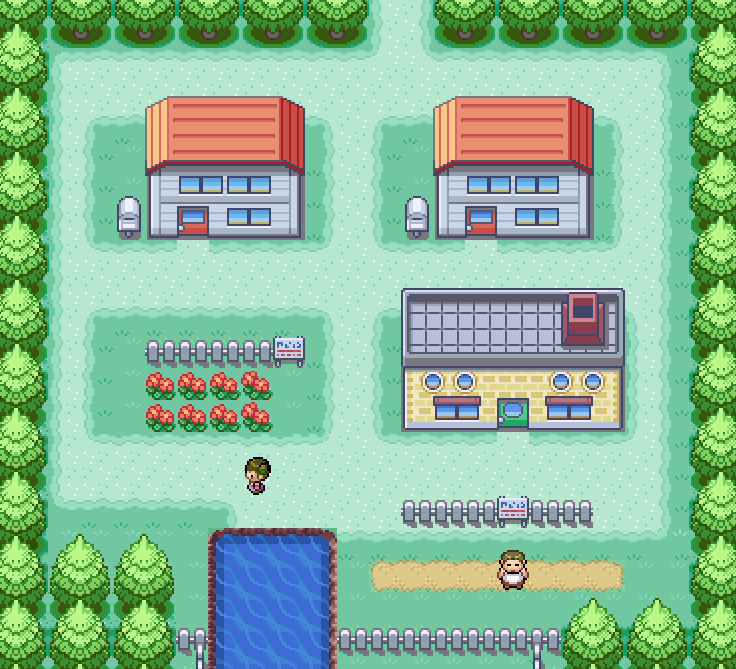
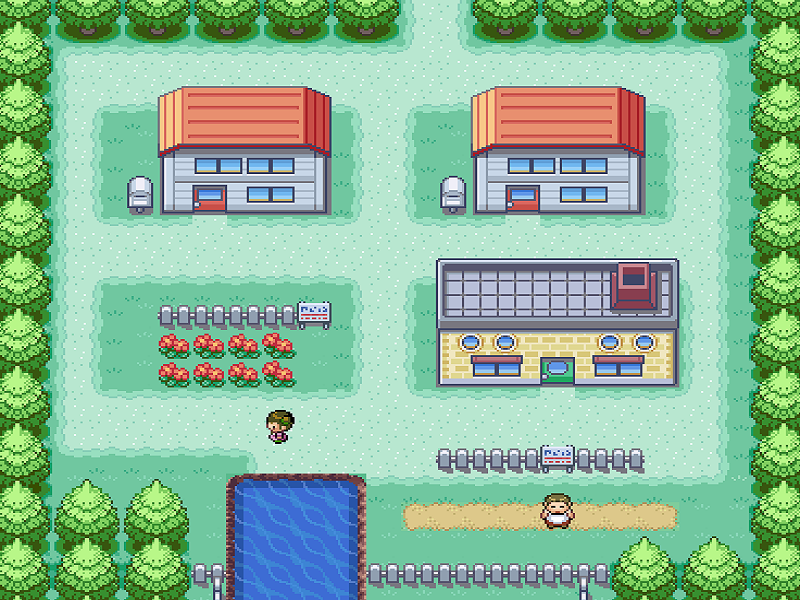
edit final
Reedição com ajustes e polimentos finais. Pré build.

diff --git a/game_principal.py b/game_principal.py
@@ -2,23 +2,27 @@ import pygame
 import time
 import random
 pygame.init()
-largura = 736
-altura = 669
+largura = 800
+altura = 600
 configTela = (largura, altura)
 gameDisplay = pygame.display.set_mode(configTela)
 clock = pygame.time.Clock()
 white = (255, 255, 255)
 red = (255, 0, 0)
+black = (0, 0, 0)
 pygame.display.set_caption("Pokémon Dodge")
 icone = pygame.image.load("assets/pikachuicon.png")
 pygame.display.set_icon(icone)
 pikachu = pygame.image.load("assets/pikachu2.png")
-larguraPikachu = 256
+larguraPikachu = 105
 fundo = pygame.image.load("assets/cidade_pallet.png")
-pokeball = pygame.image.load("assets/pokeball2.jpg")
+pokeball = pygame.image.load("assets/pokebola.png")
 capturadoSound = pygame.mixer.Sound("assets/pikachu_scream.mp3")
+capturadoSound.set_volume(0.04)
+pikachuSound = pygame.mixer.Sound("assets/pikachuSound.mp3")
+pikachuSound.set_volume(0.1)
 descargaSound = pygame.mixer.Sound("assets/descarga.mp3")
-descargaSound.set_volume(0.2)
+descargaSound.set_volume(0.1)
 nomeJogador = str(input("Insira o seu nome: "))
 emailJogador = str(input("Insira o seu email: "))
 arquivo = open("historico.txt", "a")
@@ -39,23 +43,25 @@ def escreverTela(texto):
     time.sleep(5)
     game()
 def escreverPlacar(contador):
-    fonte = pygame.font.SysFont(None, 30)
-    texto = fonte.render("Desvios:"+str(contador), True, white)
-    gameDisplay.blit(texto, (10, 10))
+    fonte = pygame.font.SysFont(None, 50)
+    texto = fonte.render("Desvios:"+str(contador), True, black)
+    gameDisplay.blit(texto, (55, 55))
 def dead():
+    pygame.mixer.Sound.play(pikachuSound)
+    pygame.mixer.music.stop()
     pygame.mixer.Sound.play(capturadoSound)
     pygame.mixer.music.stop()
     escreverTela("Você foi capturado!")
 def game():
     pygame.mixer.music.load("assets/pokemonbattle.mp3")
-    pygame.mixer.music.set_volume(0.3)
+    pygame.mixer.music.set_volume(0.2)
     pygame.mixer.music.play(-1)
-    pikachuPosicaoX = largura*0.2
-    pikachuPosicaoY = altura*0.62
+    pikachuPosicaoX = largura*0.42
+    pikachuPosicaoY = altura*0.8
     movimentoX = 0
-    velocidade = 15
-    pokeballAltura = 10
-    pokeballLargura = 10
+    velocidade = 20
+    pokeballAltura = 140
+    pokeballLargura = 140
     pokeballVelocidade = 3
     pokeballX = random.randrange(0, largura)
     pokeballY = -200

diff --git a/setup.py b/setup.py
@@ -3,7 +3,7 @@ executables = [cx_Freeze.Executable(
     script="game_principal.py", icon="assets/pikachu.ico")]
 
 cx_Freeze.setup(
-    name="Iron Man Dead",
+    name="Pokémon Dodge",
     options={"build_exe": {"packages": ["pygame"],
                            "include_files": ["assets"]
                            }},
